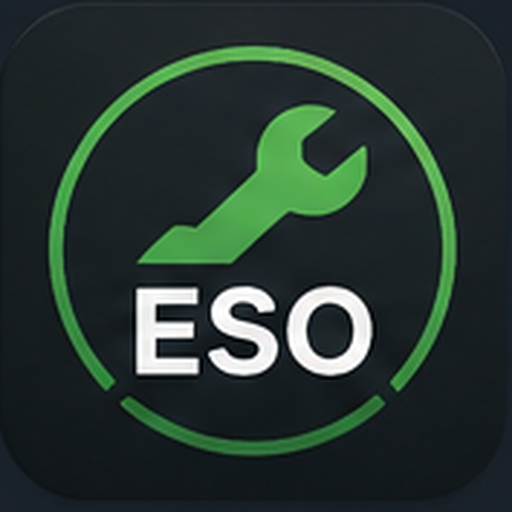
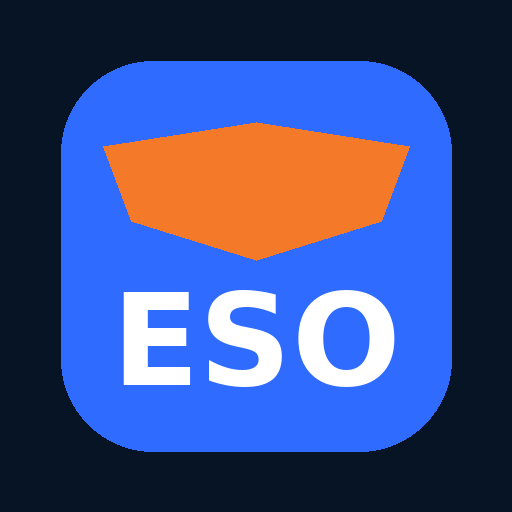
Add files via upload

diff --git a/components/eso-app.tsx b/components/eso-app.tsx
@@ -1,6 +1,6 @@
 "use client";
 import {ChangeEvent,FormEvent,useEffect,useRef,useState} from "react";
-import {Bell,Camera,ChevronRight,ClipboardList,Database,Download,FileSpreadsheet,FileText,Home,Image as ImageIcon,KeyRound,LogOut,MapPin,Menu,Plus,Search,ShieldCheck,Trash2,Upload,Users,Wrench,X} from "lucide-react";
+import {Bell,Camera,ChevronRight,ClipboardList,Database,Download,FileSpreadsheet,FileText,Home,Image as ImageIcon,KeyRound,LogOut,MapPin,Menu,Plus,Search,ShieldCheck,Trash2,Upload,Users,Wrench,X,Trophy} from "lucide-react";
 import type {AppNotification,Department,ESOReport,Location,Role,Urgency,User} from "@/types";
 type View="dashboard"|"report"|"my-history"|"all-reports"|"maintenance"|"employees"|"departments"|"locations"|"exports";
 const canAdmin=(r?:Role)=>r==="Admin"||r==="Super Admin";
@@ -18,7 +18,7 @@ export default function ESOApp(){
  const logout=async()=>{await fetch('/api/logout',{method:'POST'});setCurrentUser(null);setNotifications([])};
  const unread=notifications.filter(n=>!n.isRead).length;
  return <div className="app-shell">
-  <header className="topbar"><div className="brand"><span className="brand-mark">ESO</span><span>MANAGEMENT SYSTEM</span></div><div className="top-user">{currentUser.name}<span>•</span>ID {currentUser.employeeId}</div><button className="mobile-menu" onClick={()=>setMobileNav(!mobileNav)}><Menu size={22}/></button></header>
+  <header className="topbar"><div className="brand"><span className="brand-icon"><ShieldCheck size={20}/></span><span className="brand-copy"><b className="brand-mark">ESO</b><small>Environment &amp; Safety Opportunity</small></span></div><div className="top-user">{currentUser.name}<span>•</span>ID {currentUser.employeeId}</div><button className="mobile-menu" onClick={()=>setMobileNav(!mobileNav)}><Menu size={22}/></button></header>
   <aside className={`sidebar ${mobileNav?'open':''}`}>
    <div className="profile-card"><div className="avatar">{currentUser.name.split(' ').map(x=>x[0]).slice(0,2).join('')}</div><div><strong>{currentUser.name}</strong><span>{currentUser.role}</span><small>{currentUser.department}</small></div></div>
    <nav>
@@ -48,10 +48,11 @@ export default function ESOApp(){
  </div>
 }
 function Nav({icon,label,active,onClick}:{icon:React.ReactNode,label:string,active:boolean,onClick:()=>void}){return <button className={`nav-btn ${active?'active':''}`} onClick={onClick}>{icon}<span>{label}</span><ChevronRight size={15}/></button>}
-function Login({onLogin}:{onLogin:()=>Promise<void>}){const[id,setId]=useState(''),[password,setPassword]=useState(''),[error,setError]=useState(''),[busy,setBusy]=useState(false);const submit=async(e:FormEvent)=>{e.preventDefault();setBusy(true);setError('');try{await json('/api/login',{method:'POST',headers:{'Content-Type':'application/json'},body:JSON.stringify({employeeId:id,password})});await onLogin()}catch(e:any){setError(e.message)}finally{setBusy(false)}};return <div className="login-page"><div className="login-brand"><span>ESO</span><strong>MANAGEMENT SYSTEM</strong><small>Environmental & Safety Opportunities</small></div><form className="login-card" onSubmit={submit}><div className="login-icon"><ShieldCheck size={30}/></div><h1>Welcome</h1><p>Enter your Employee ID to continue.</p><label>Employee ID<input autoFocus value={id} onChange={e=>setId(e.target.value)} placeholder="e.g. 10001"/></label><label>Password <small>(privileged roles only)</small><input type="password" value={password} onChange={e=>setPassword(e.target.value)} placeholder="Leave blank for Employee"/></label>{error&&<div className="form-error">{error}</div>}<button className="primary-btn" disabled={busy}>{busy?'SIGNING IN…':'LOG IN'}</button></form></div>}
+function Login({onLogin}:{onLogin:()=>Promise<void>}){const[id,setId]=useState(''),[password,setPassword]=useState(''),[error,setError]=useState(''),[busy,setBusy]=useState(false);const submit=async(e:FormEvent)=>{e.preventDefault();setBusy(true);setError('');try{await json('/api/login',{method:'POST',headers:{'Content-Type':'application/json'},body:JSON.stringify({employeeId:id,password})});await onLogin()}catch(e:any){setError(e.message)}finally{setBusy(false)}};return <div className="login-page"><div className="login-brand"><span className="login-logo"><ShieldCheck size={26}/></span><div><span>ESO</span><small>Environment &amp; Safety Opportunity</small></div></div><form className="login-card" onSubmit={submit}><div className="login-icon"><ShieldCheck size={30}/></div><h1>Welcome</h1><p>Enter your Employee ID to continue.</p><label>Employee ID<input autoFocus value={id} onChange={e=>setId(e.target.value)} placeholder="e.g. 10001"/></label><label>Password <small>(privileged roles only)</small><input type="password" value={password} onChange={e=>setPassword(e.target.value)} placeholder="Leave blank for Employee"/></label>{error&&<div className="form-error">{error}</div>}<button className="primary-btn" disabled={busy}>{busy?'SIGNING IN…':'LOG IN'}</button></form></div>}
 function Title({title,subtitle}:{title:string,subtitle?:string}){return <div className="page-title"><div><h1>{title}</h1>{subtitle&&<p>{subtitle}</p>}</div></div>}
 function Badge({text}:{text:string}){return <span className={`badge ${text.toLowerCase().replaceAll(' ','-')}`}>{text}</span>}
-function Dashboard({user,users,reports,onReport,onOpen}:{user:User,users:User[],reports:ESOReport[],onReport:()=>void,onOpen:(r:ESOReport)=>void}){const year=new Date().getFullYear(),yr=reports.filter(r=>new Date(r.createdAt).getFullYear()===year);if(user.role==='Employee'){const mine=yr.filter(r=>r.reporterId===user.id),pct=Math.min(100,Math.round(mine.length/user.annualTarget*100));return <div className="page"><Title title="My ESO Dashboard" subtitle={`${user.name} • ${user.department}`}/><div className="employee-hero"><div><span>ANNUAL ESO TARGET</span><h2>{mine.length} <small>/ {user.annualTarget}</small></h2><div className="progress"><i style={{width:`${pct}%`}}/></div><p>{Math.max(0,user.annualTarget-mine.length)} reports remaining</p></div><button className="report-big" onClick={onReport}><Plus size={24}/> REPORT ESO</button></div><ReportsTable title="Recent submissions" reports={mine.slice(0,5)} users={users} onOpen={onOpen}/></div>};const stats=[['ESO YTD',yr.length,'blue'],['OPEN',reports.filter(r=>r.status==='Open').length,'orange'],['IN PROGRESS',reports.filter(r=>r.status==='In Progress').length,'purple'],['COMPLETED',reports.filter(r=>r.status==='Completed').length,'green'],['CRITICAL OPEN',reports.filter(r=>r.urgency==='Critical'&&r.status!=='Completed').length,'red']];return <div className="page"><div className="dashboard-heading"><Title title="ESO Dashboard" subtitle={`${year} performance overview`}/><button className="primary-btn compact" onClick={onReport}><Plus size={17}/> REPORT ESO</button></div><div className="stat-grid">{stats.map(([l,v,c]:any)=><div className={`stat-card ${c}`} key={l}><span>{l}</span><strong>{v}</strong></div>)}</div><DepartmentPerformance users={users} reports={reports}/><div className="panel"><div className="panel-head"><h3>Employee Target Tracker <span>• 12 ESO / YEAR</span></h3></div><EmployeeTable users={users.filter(u=>u.active)} reports={reports}/></div><ReportsTable title="Latest ESO Submissions" reports={reports.slice(0,8)} users={users} onOpen={onOpen}/></div>}
+function TopEmployeeCard({users,reports}:{users:User[],reports:ESOReport[]}){const year=new Date().getFullYear(),counts=new Map<string,number>();reports.filter(r=>new Date(r.createdAt).getFullYear()===year).forEach(r=>counts.set(r.reporterId,(counts.get(r.reporterId)||0)+1));const top=users.filter(u=>u.active).map(u=>({u,count:counts.get(u.id)||0})).sort((a,b)=>b.count-a.count||a.u.name.localeCompare(b.u.name))[0];return <div className="top-employee-card"><div className="top-employee-icon"><Trophy size={20}/></div><div><span>EMPLOYEE WITH MOST ESO YTD</span><strong>{top?.u.name||'No submissions yet'}</strong><small>{top?`${top.count} ESO ${top.count===1?'report':'reports'}`:'0 ESO reports'}</small></div></div>}
+function Dashboard({user,users,reports,onReport,onOpen}:{user:User,users:User[],reports:ESOReport[],onReport:()=>void,onOpen:(r:ESOReport)=>void}){const year=new Date().getFullYear(),yr=reports.filter(r=>new Date(r.createdAt).getFullYear()===year);if(user.role==='Employee'){const mine=yr.filter(r=>r.reporterId===user.id),pct=Math.min(100,Math.round(mine.length/user.annualTarget*100));return <div className="page"><Title title="My ESO Dashboard" subtitle={`${user.name} • ${user.department}`}/><div className="employee-dashboard-row"><div className="employee-hero"><div><span>ANNUAL ESO TARGET</span><h2>{mine.length} <small>/ {user.annualTarget}</small></h2><div className="progress"><i style={{width:`${pct}%`}}/></div><p>{Math.max(0,user.annualTarget-mine.length)} reports remaining</p></div><button className="report-big" onClick={onReport}><Plus size={24}/> REPORT ESO</button></div><TopEmployeeCard users={users} reports={reports}/></div><ReportsTable title="Recent submissions" reports={mine.slice(0,5)} users={users} onOpen={onOpen}/></div>};const stats=[['ESO YTD',yr.length,'blue'],['OPEN',reports.filter(r=>r.status==='Open').length,'orange'],['IN PROGRESS',reports.filter(r=>r.status==='In Progress').length,'purple'],['COMPLETED',reports.filter(r=>r.status==='Completed').length,'green'],['CRITICAL OPEN',reports.filter(r=>r.urgency==='Critical'&&r.status!=='Completed').length,'red']];return <div className="page"><div className="dashboard-heading"><Title title="ESO Dashboard" subtitle={`${year} performance overview`}/><button className="primary-btn compact" onClick={onReport}><Plus size={17}/> REPORT ESO</button></div><div className="stat-grid">{stats.map(([l,v,c]:any)=><div className={`stat-card ${c}`} key={l}><span>{l}</span><strong>{v}</strong></div>)}</div><div className="performance-row"><DepartmentPerformance users={users} reports={reports}/><TopEmployeeCard users={users} reports={reports}/></div><div className="panel"><div className="panel-head"><h3>Employee Target Tracker <span>• 12 ESO / YEAR</span></h3></div><EmployeeTable users={users.filter(u=>u.active)} reports={reports}/></div><ReportsTable title="Latest ESO Submissions" reports={reports.slice(0,8)} users={users} onOpen={onOpen}/></div>}
 function ReportForm({user,locations,onDone}:{user:User,locations:Location[],onDone:()=>Promise<void>}){const[locationId,setLocationId]=useState(locations[0]?.id||''),[category,setCategory]=useState('Safety'),[description,setDescription]=useState(''),[urgency,setUrgency]=useState<Urgency>('Medium'),[file,setFile]=useState<File|null>(null),[preview,setPreview]=useState(''),[error,setError]=useState(''),[busy,setBusy]=useState(false);const cameraRef=useRef<HTMLInputElement>(null),galleryRef=useRef<HTMLInputElement>(null);const image=(e:ChangeEvent<HTMLInputElement>)=>{const f=e.target.files?.[0]||null;setFile(f);if(preview)URL.revokeObjectURL(preview);setPreview(f?URL.createObjectURL(f):'')};const submit=async(e:FormEvent)=>{e.preventDefault();setBusy(true);setError('');try{const fd=new FormData();fd.set('locationId',locationId);fd.set('category',category);fd.set('description',description);fd.set('urgency',urgency);if(file)fd.set('file',file);await json('/api/reports',{method:'POST',body:fd});await onDone()}catch(e:any){setError(e.message)}finally{setBusy(false)}};return <div className="page narrow"><Title title="Report ESO" subtitle="Environmental & Safety Opportunity"/><form className="form-panel" onSubmit={submit}><div className="form-grid"><label>Date & Time<input disabled value={new Date().toLocaleString()}/></label><label>Reporter<input disabled value={`${user.name} • ID ${user.employeeId}`}/></label></div><div className="form-grid"><label>Location<select value={locationId} onChange={e=>setLocationId(e.target.value)}>{locations.map(l=><option value={l.id} key={l.id}>{l.name}</option>)}</select></label><label>Category<select value={category} onChange={e=>setCategory(e.target.value)}><option>Safety</option><option>Environmental</option></select></label></div><label>Problem / Opportunity Description<textarea rows={6} value={description} onChange={e=>setDescription(e.target.value)} placeholder="Describe what you observed…"/></label><div className="form-grid"><label>Attachment (optional)<div className="photo-actions"><button type="button" className="photo-choice" onClick={()=>cameraRef.current?.click()}><Camera size={19}/><span><b>Take Photo</b><small>Open device camera</small></span></button><button type="button" className="photo-choice" onClick={()=>galleryRef.current?.click()}><Upload size={19}/><span><b>Choose from Gallery</b><small>Use an existing image</small></span></button><input ref={cameraRef} className="hidden-file" type="file" accept="image/*" capture="environment" onChange={image}/><input ref={galleryRef} className="hidden-file" type="file" accept="image/*" onChange={image}/></div>{file&&<small className="selected-file">Selected: {file.name}</small>}</label><label>Urgency<select value={urgency} onChange={e=>setUrgency(e.target.value as Urgency)}><option>Low</option><option>Medium</option><option>High</option><option>Critical</option></select></label></div>{preview&&<img className="upload-preview" src={preview} alt="preview"/>}{error&&<div className="form-error">{error}</div>}<div className="form-actions"><button className="primary-btn" disabled={busy}>{busy?'SUBMITTING…':'SUBMIT ESO'}</button></div></form></div>}
 function ReportsTable({title,reports,users,onOpen,adminFilters=false}:{title:string,reports:ESOReport[],users:User[],onOpen:(r:ESOReport)=>void,adminFilters?:boolean}){const[q,setQ]=useState(''),[status,setStatus]=useState('All'),[urg,setUrg]=useState('All');const visible=reports.filter(r=>{const u=users.find(x=>x.id===r.reporterId),s=q.toLowerCase();return(!s||r.esoNo.toLowerCase().includes(s)||u?.name.toLowerCase().includes(s)||u?.employeeId.includes(s)||r.location.toLowerCase().includes(s))&&(status==='All'||r.status===status)&&(urg==='All'||r.urgency===urg)});return <div className="panel"><div className="panel-head"><h3>{title}</h3><span>{visible.length} records</span></div>{adminFilters&&<div className="filters"><div className="search"><Search size={16}/><input value={q} onChange={e=>setQ(e.target.value)} placeholder="Search ESO, employee, location…"/></div><select value={status} onChange={e=>setStatus(e.target.value)}><option>All</option><option>Open</option><option>In Progress</option><option>Completed</option></select><select value={urg} onChange={e=>setUrg(e.target.value)}><option>All</option><option>Low</option><option>Medium</option><option>High</option><option>Critical</option></select></div>}<div className="table-wrap reports-table"><table><thead><tr><th>ESO #</th><th>Employee</th><th>Department</th><th>Date</th><th>Location</th><th>Urgency</th><th>Status</th><th></th></tr></thead><tbody>{visible.map(r=>{const u=users.find(x=>x.id===r.reporterId);return <tr key={r.id}><td data-label="ESO #"><b>{r.esoNo}</b></td><td data-label="Employee">{u?.name}<small>ID {u?.employeeId}</small></td><td data-label="Department">{u?.department}</td><td data-label="Date">{new Date(r.createdAt).toLocaleDateString()}</td><td data-label="Location">{r.location}</td><td data-label="Urgency"><Badge text={r.urgency}/></td><td data-label="Status"><Badge text={r.status}/></td><td data-label=""><button className="outline-small" onClick={()=>onOpen(r)}>OPEN</button></td></tr>})}</tbody></table></div></div>}
 function ReportModal({report,users,onClose}:{report:ESOReport,users:User[],onClose:()=>void}){const u=users.find(x=>x.id===report.reporterId),m=users.find(x=>x.id===report.assignedTo);return <div className="modal-backdrop"><div className="modal"><div className="modal-head"><div><h2>{report.esoNo}</h2><span>ESO Details</span></div><Badge text={report.urgency}/><button onClick={onClose}><X/></button></div><div className="modal-body"><div className="detail-grid"><Detail l="Reporter" v={`${u?.name||''} • ID ${u?.employeeId||''}`}/><Detail l="Date & Time" v={new Date(report.createdAt).toLocaleString()}/><Detail l="Department" v={u?.department||'—'}/><Detail l="Status" v={report.status}/><Detail l="Location" v={report.location}/><Detail l="Assigned To" v={m?`${m.name} • ${m.role}`:'Not assigned'}/></div><Block l="Problem Description" v={report.description}/><Block l="Corrective Action" v={report.correctiveAction||'No corrective action recorded yet.'}/><div className="attachment-grid"><AttachmentBlock title="Reported Photo" url={report.imageData} name={report.imageName}/><AttachmentBlock title="Completion / After Photo" url={report.completionImageData} name={report.completionImageName}/></div></div></div></div>}

diff --git a/app/globals.css b/app/globals.css
@@ -179,3 +179,8 @@
 @media(max-width:380px){
   .brand span:last-child{display:none}.department-cards{grid-template-columns:1fr}.stat-grid{grid-template-columns:1fr 1fr}.reports-table tr{grid-template-columns:1fr}.reports-table td{grid-column:1!important}.detail-grid{grid-template-columns:1fr}.photo-actions{grid-template-columns:1fr}.export-filters{grid-template-columns:1fr}.export-filters label:last-child{grid-column:auto}
 }
+
+/* v5 branding + compact performance highlight */
+.brand{align-items:center;gap:9px}.brand-icon{width:32px;height:32px;border-radius:9px;background:linear-gradient(145deg,var(--blue),var(--orange));display:grid;place-items:center;color:white}.brand-copy{display:grid;gap:0;line-height:1}.brand-copy .brand-mark{font-size:21px;color:white;letter-spacing:.02em}.brand-copy small{font-size:9px;color:#b9cbe2;font-weight:700;letter-spacing:.02em;margin-top:3px}.performance-row{display:grid;grid-template-columns:minmax(0,1fr) minmax(250px,.42fr);gap:12px;align-items:stretch}.performance-row>.panel{min-width:0}.top-employee-card{background:white;border:1px solid var(--border);border-top:5px solid var(--orange);padding:18px;display:flex;align-items:center;gap:14px;min-width:0}.top-employee-icon{width:44px;height:44px;flex:0 0 44px;border-radius:12px;background:#fff2e9;color:var(--orange);display:grid;place-items:center}.top-employee-card>div:last-child{min-width:0;display:grid;gap:4px}.top-employee-card span{font-size:10px;font-weight:900;color:var(--muted);line-height:1.3}.top-employee-card strong{font-size:20px;overflow-wrap:anywhere}.top-employee-card small{font-size:12px;color:var(--blue);font-weight:800}.employee-dashboard-row{display:grid;grid-template-columns:minmax(0,1fr) minmax(240px,.42fr);gap:12px}.employee-dashboard-row .employee-hero{min-width:0}.login-brand{align-items:center}.login-logo{width:44px;height:44px;border-radius:12px;background:linear-gradient(145deg,var(--blue),var(--orange));display:grid;place-items:center}.login-brand>div{display:grid}.login-brand>div>span{font-size:25px;font-weight:900;color:white}.login-brand>div>small{position:static;color:#b9cbe2;width:auto;font-size:10px;margin-top:2px}
+@media(max-width:1300px){.performance-row,.employee-dashboard-row{grid-template-columns:1fr}.top-employee-card{min-height:100px}}
+@media(max-width:650px){.brand-icon{width:30px;height:30px}.brand-copy .brand-mark{font-size:18px}.brand-copy small{font-size:7px;max-width:155px;white-space:normal;line-height:1.15}.performance-row{gap:7px}.performance-row .panel{padding-bottom:9px}.top-employee-card{min-height:0;padding:10px 11px;border-top-width:3px;gap:9px}.top-employee-icon{width:34px;height:34px;flex-basis:34px;border-radius:9px}.top-employee-card span{font-size:8px}.top-employee-card strong{font-size:15px}.top-employee-card small{font-size:9px}.employee-dashboard-row{gap:7px}.login-brand{position:static;margin:0 0 8px}.login-logo{width:38px;height:38px}.login-brand>div>span{font-size:22px}.login-brand>div>small{font-size:9px}}
